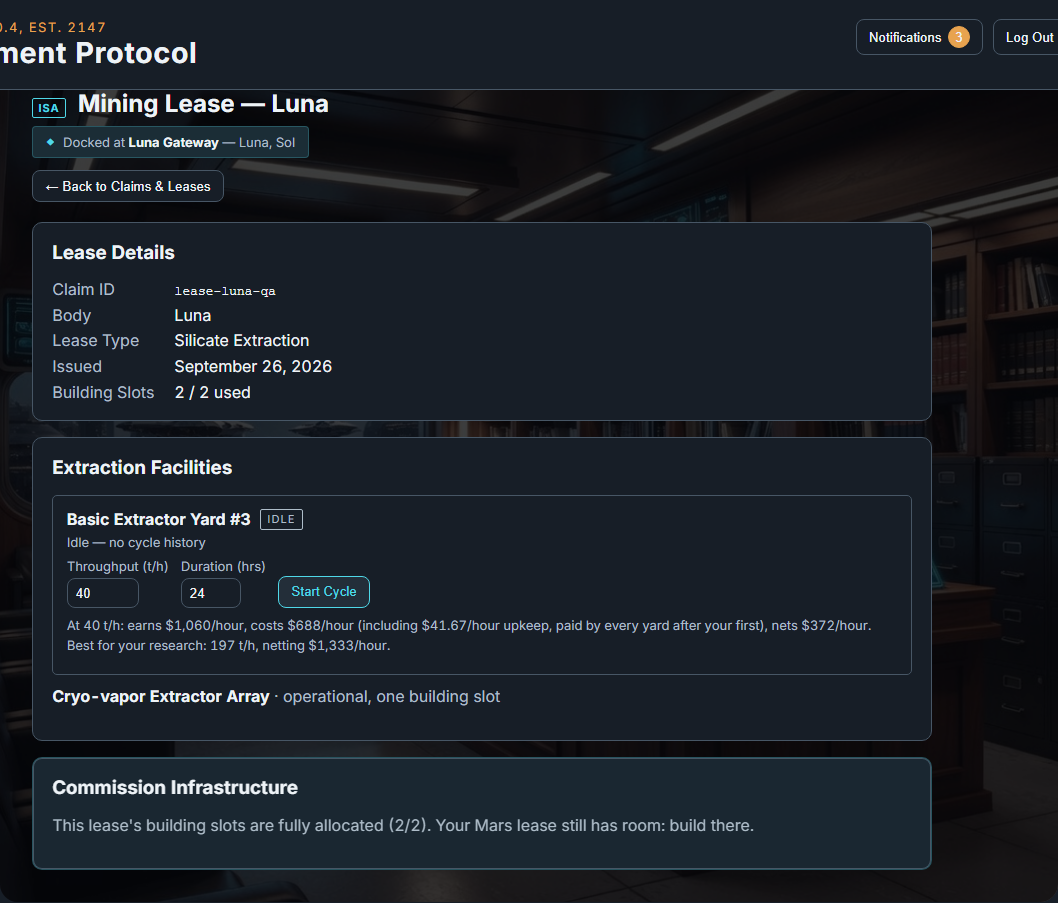
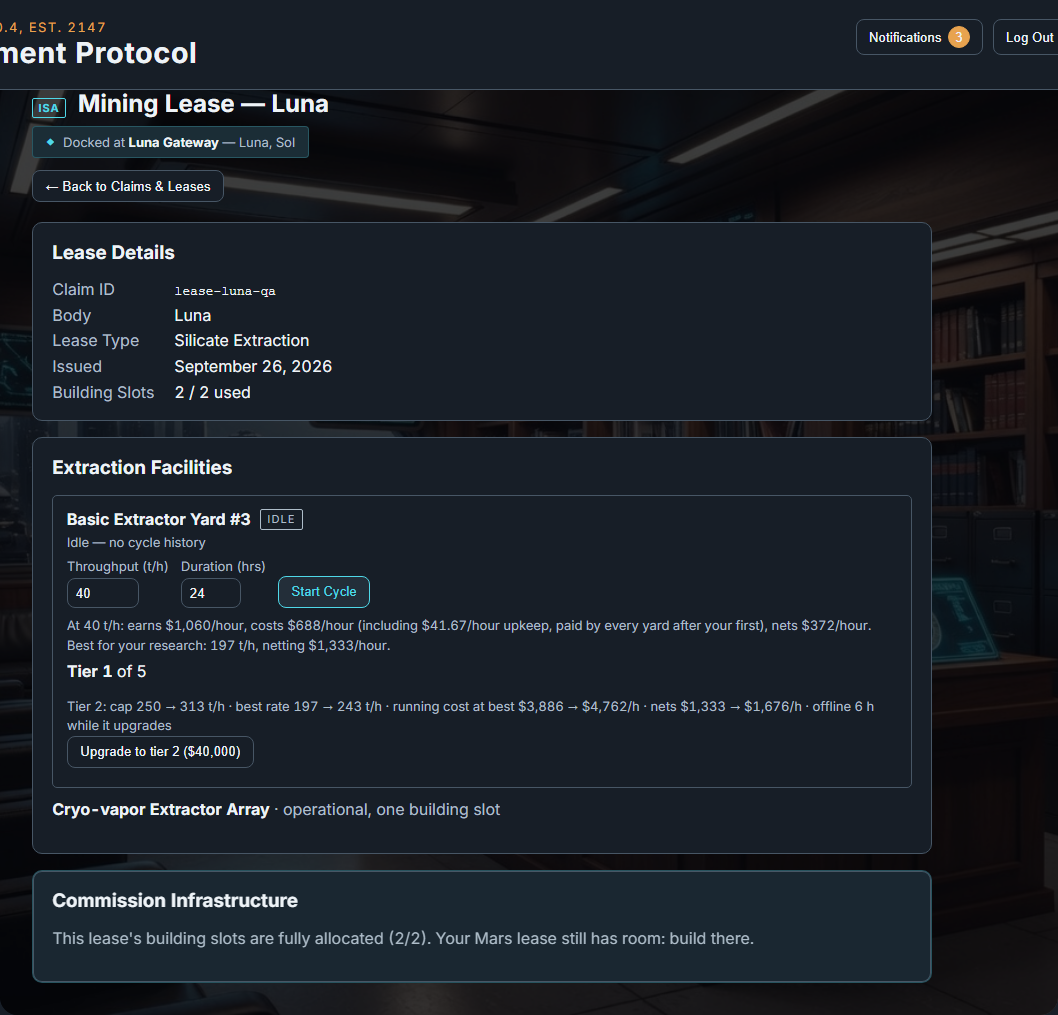
fix(station): the yard upgrade control reads the shared mining efficiency, lease included AB#788
Main's AB#795 added two callers of miningEfficiencyOf, which this branch replaced with miningEfficiency;
the merge was clean as text and threw ReferenceError on the lease page, found by the construction
playtest (the unit suites passed). extractorEfficiency(corp, ex) gives the yard upgrade view the same
efficiency as the tick and the projection, the Cryo-vapor Extractor Array included. The playtest opens
tabs through e2e/nav.mjs (AB#764) and asserts the lease page opened; screens refreshed from main.

Orchestrata-Role: builder

diff --git a/public/scripts/views/station.js b/public/scripts/views/station.js
@@ -715,7 +715,7 @@ export function renderLeaseManagement(building, lease, data) {
     // ISP-103 (AB#795): a yard being upgraded is offline; the upgrade control says until when.
     const upgrading = Number(ex.upgradingUntil) > Date.now();
     const mineFormVisible = !ex.active && !ex.downtimeActive && !upgrading;
-    const upgradeHtml = yardUpgradeHtml(yardUpgradeView(ex, data.corp, appState.economy, { efficiency: miningEfficiencyOf(data.corp) }), ex.id);
+    const upgradeHtml = yardUpgradeHtml(yardUpgradeView(ex, data.corp, appState.economy, { efficiency: extractorEfficiency(data.corp, ex) }), ex.id);
     extractorRows += `
       <div class="extractor-row ${statusClass}" data-live-ex="${escapeHtml(ex.id)}" data-live-state="${extractorState(ex)}">
         <div class="extractor-row-header">
@@ -930,7 +930,7 @@ export function bindLeaseManagementActions(building, lease, data) {
       const extractorId = btn.getAttribute("data-extractor-id");
       const buildingId = btn.getAttribute("data-upgrade-building");
       const ex = (appState.data?.corp?.mining?.silicateExtractors || []).find((e) => e.id === extractorId);
-      const view = ex ? yardUpgradeView(ex, appState.data.corp, appState.economy, { efficiency: miningEfficiencyOf(appState.data.corp) }) : null;
+      const view = ex ? yardUpgradeView(ex, appState.data.corp, appState.economy, { efficiency: extractorEfficiency(appState.data.corp, ex) }) : null;
       const statusEl = document.querySelector(`.yard-upgrade-status[data-for="${CSS.escape(extractorId)}"]`);
       if (!view?.next || view.locked || view.blocked || !appState.accountId) return;
       const { next } = view;
@@ -1296,6 +1296,11 @@ export function mineProjectionText(rate, extractorId) {
     + (best.throughputPerHour === rate
       ? "That is the best rate for your research."
       : `Best for your research: ${best.throughputPerHour} t/h, netting ${toCurrency(best.profitPerHour)}/hour.`);
+}
+
+/** What an hour on this extractor's lease is multiplied by: research and the lease's Cryo-vapor Extractor Array (ISP-98). */
+export function extractorEfficiency(corp, ex) {
+  return miningEfficiency(corp, (corp?.miningLeases || []).find((l) => l.id === ex?.leaseId), appState.economy?.buildings);
 }
 
 /** An extractor's place among the corporation's yards, in build order: 0 is its first, -1 when it is not found. */

diff --git a/e2e/construction-panel.spec.js b/e2e/construction-panel.spec.js
@@ -178,9 +178,10 @@ for (const viewport of VIEWPORTS) {
 // counts its slot, and quotes the Luna yard's hour at 1.2 times the revenue. (What the mining tick deposits at 1.2 times is
 // tests/integration/cryo-vapor-array.test.js: seconds at 40 t/h mine no whole tonne, so a playtest cannot see it.)
 async function openLunaLease(page) {
-  await page.click('.tab-btn[data-tab="station"]');
+  await openTab(page, "station"); // AB#764: tabs sit in groups; the helper opens the group first
   await page.click('[data-building-action="building:isa-claims-leases"]');
   await page.click('.lease-manage-btn[data-lease-id="lease-luna-qa"]');
+  await expect(page.locator("#station-building-view")).toContainText("Mining Lease — Luna");
   const line = page.locator(".lease-mine-projection").first();
   await expect(line).toContainText("earns");
   return Number((await line.innerText()).match(/earns \$([\d,]+)\/hour/)[1].replace(/,/g, ""));
